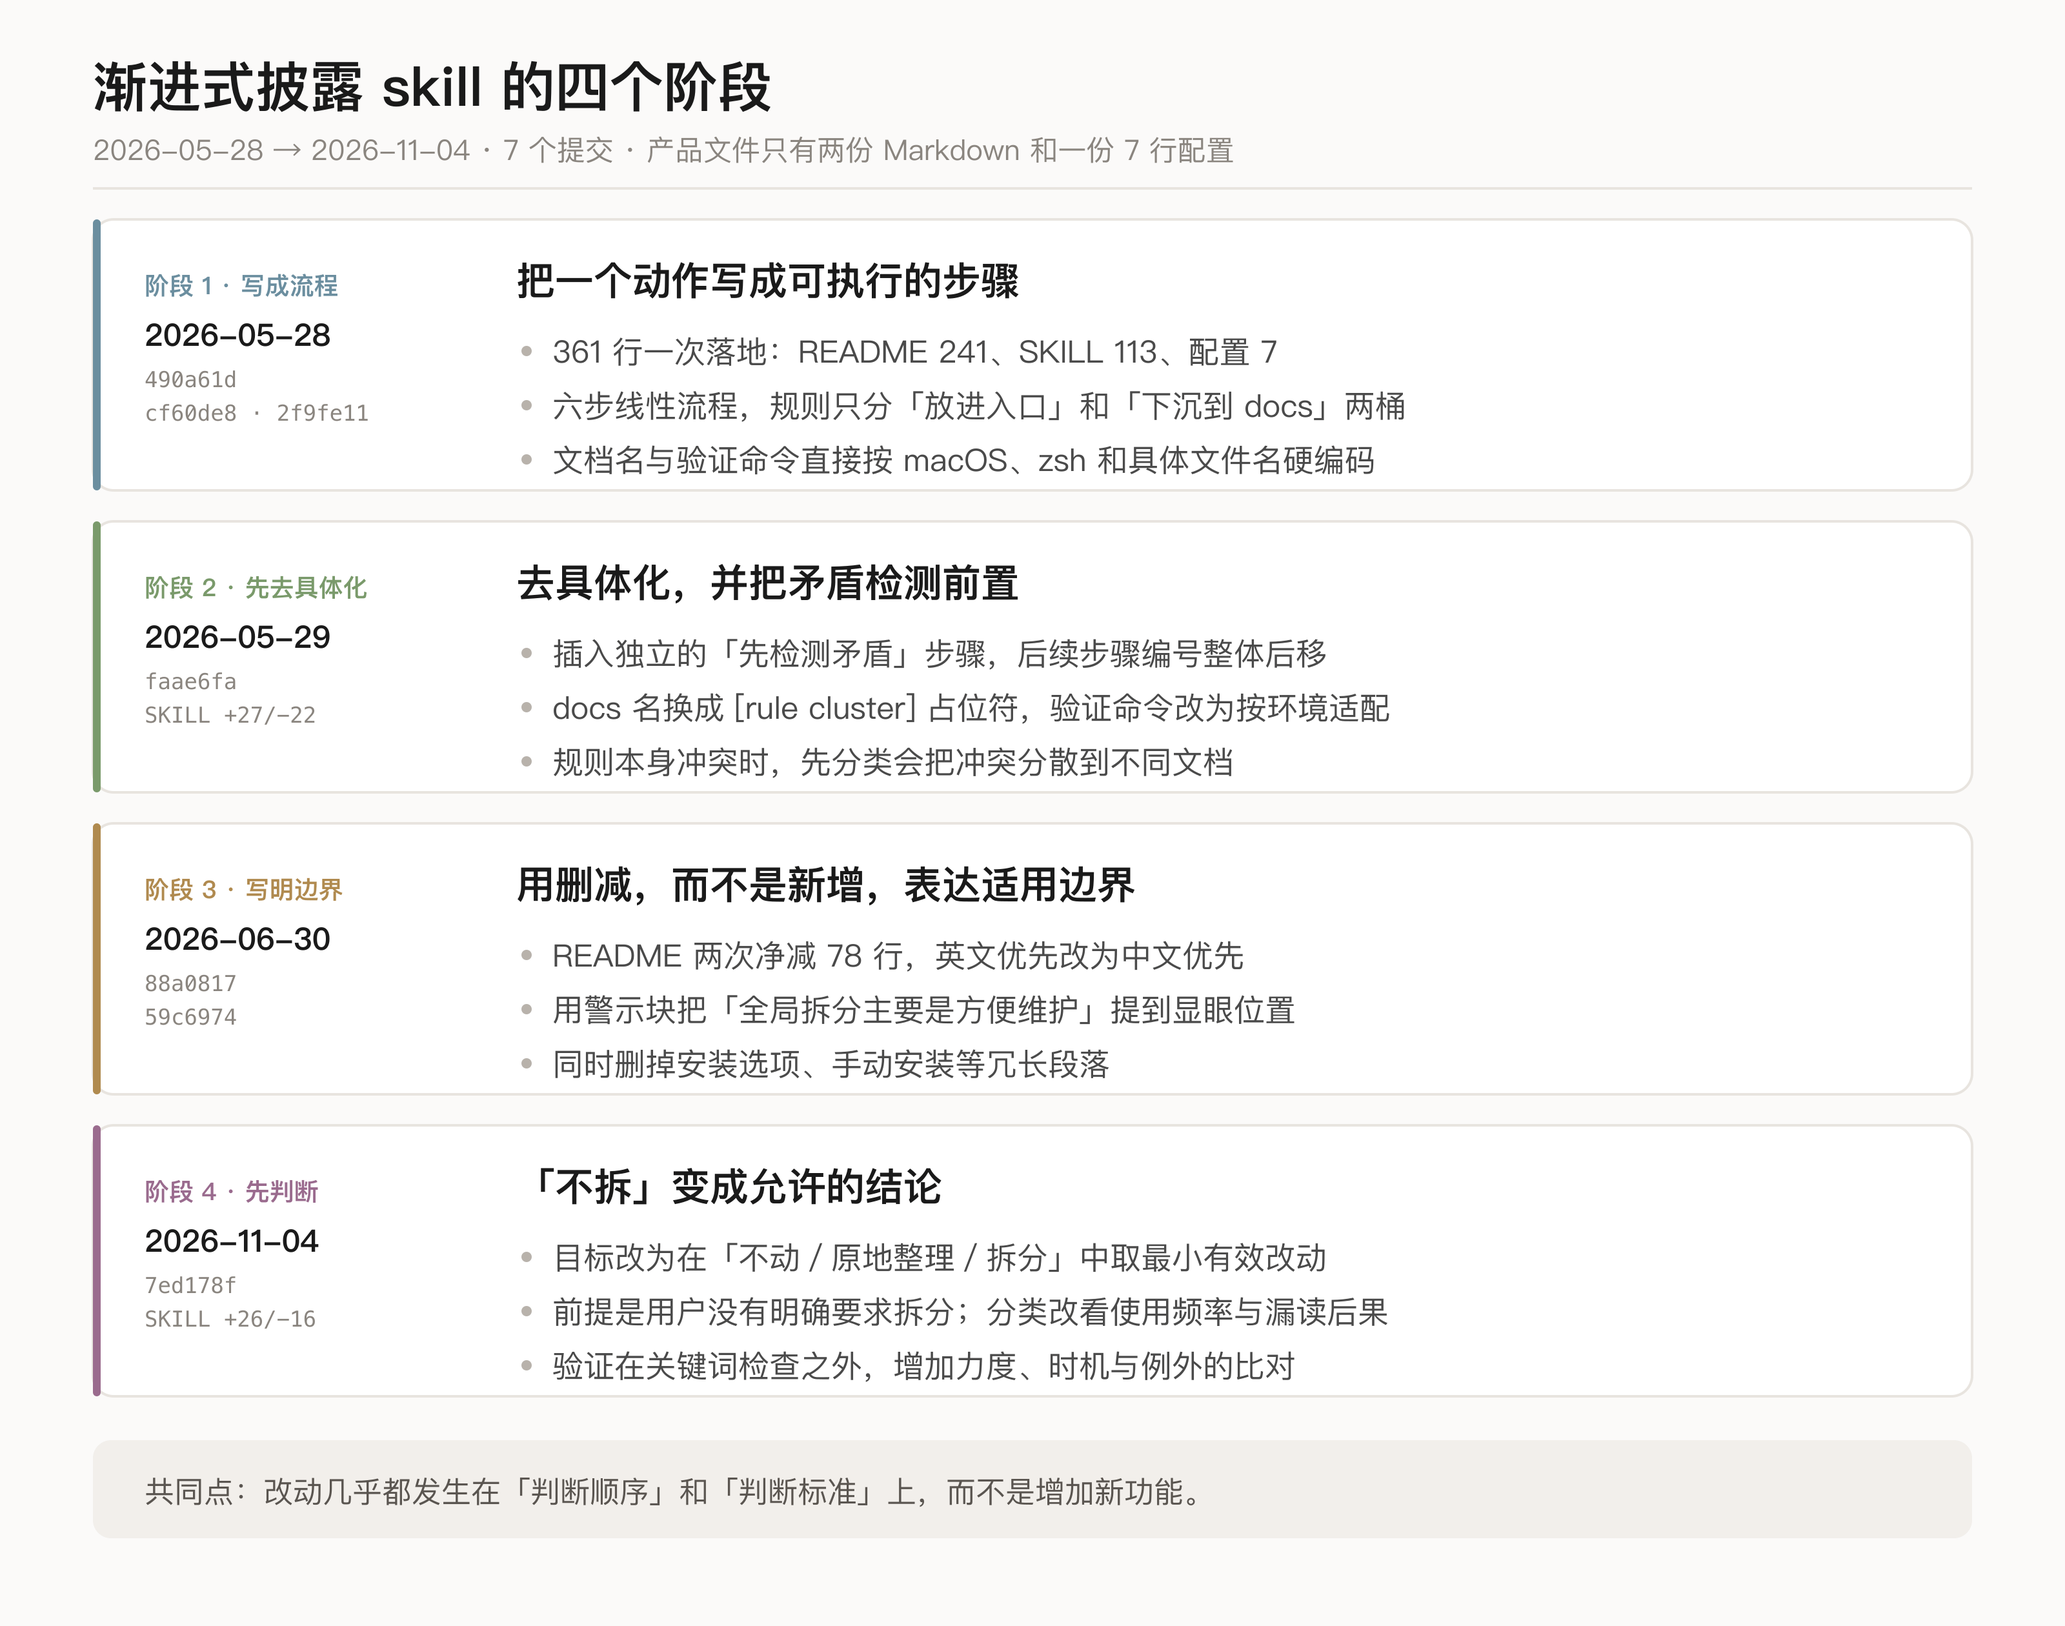
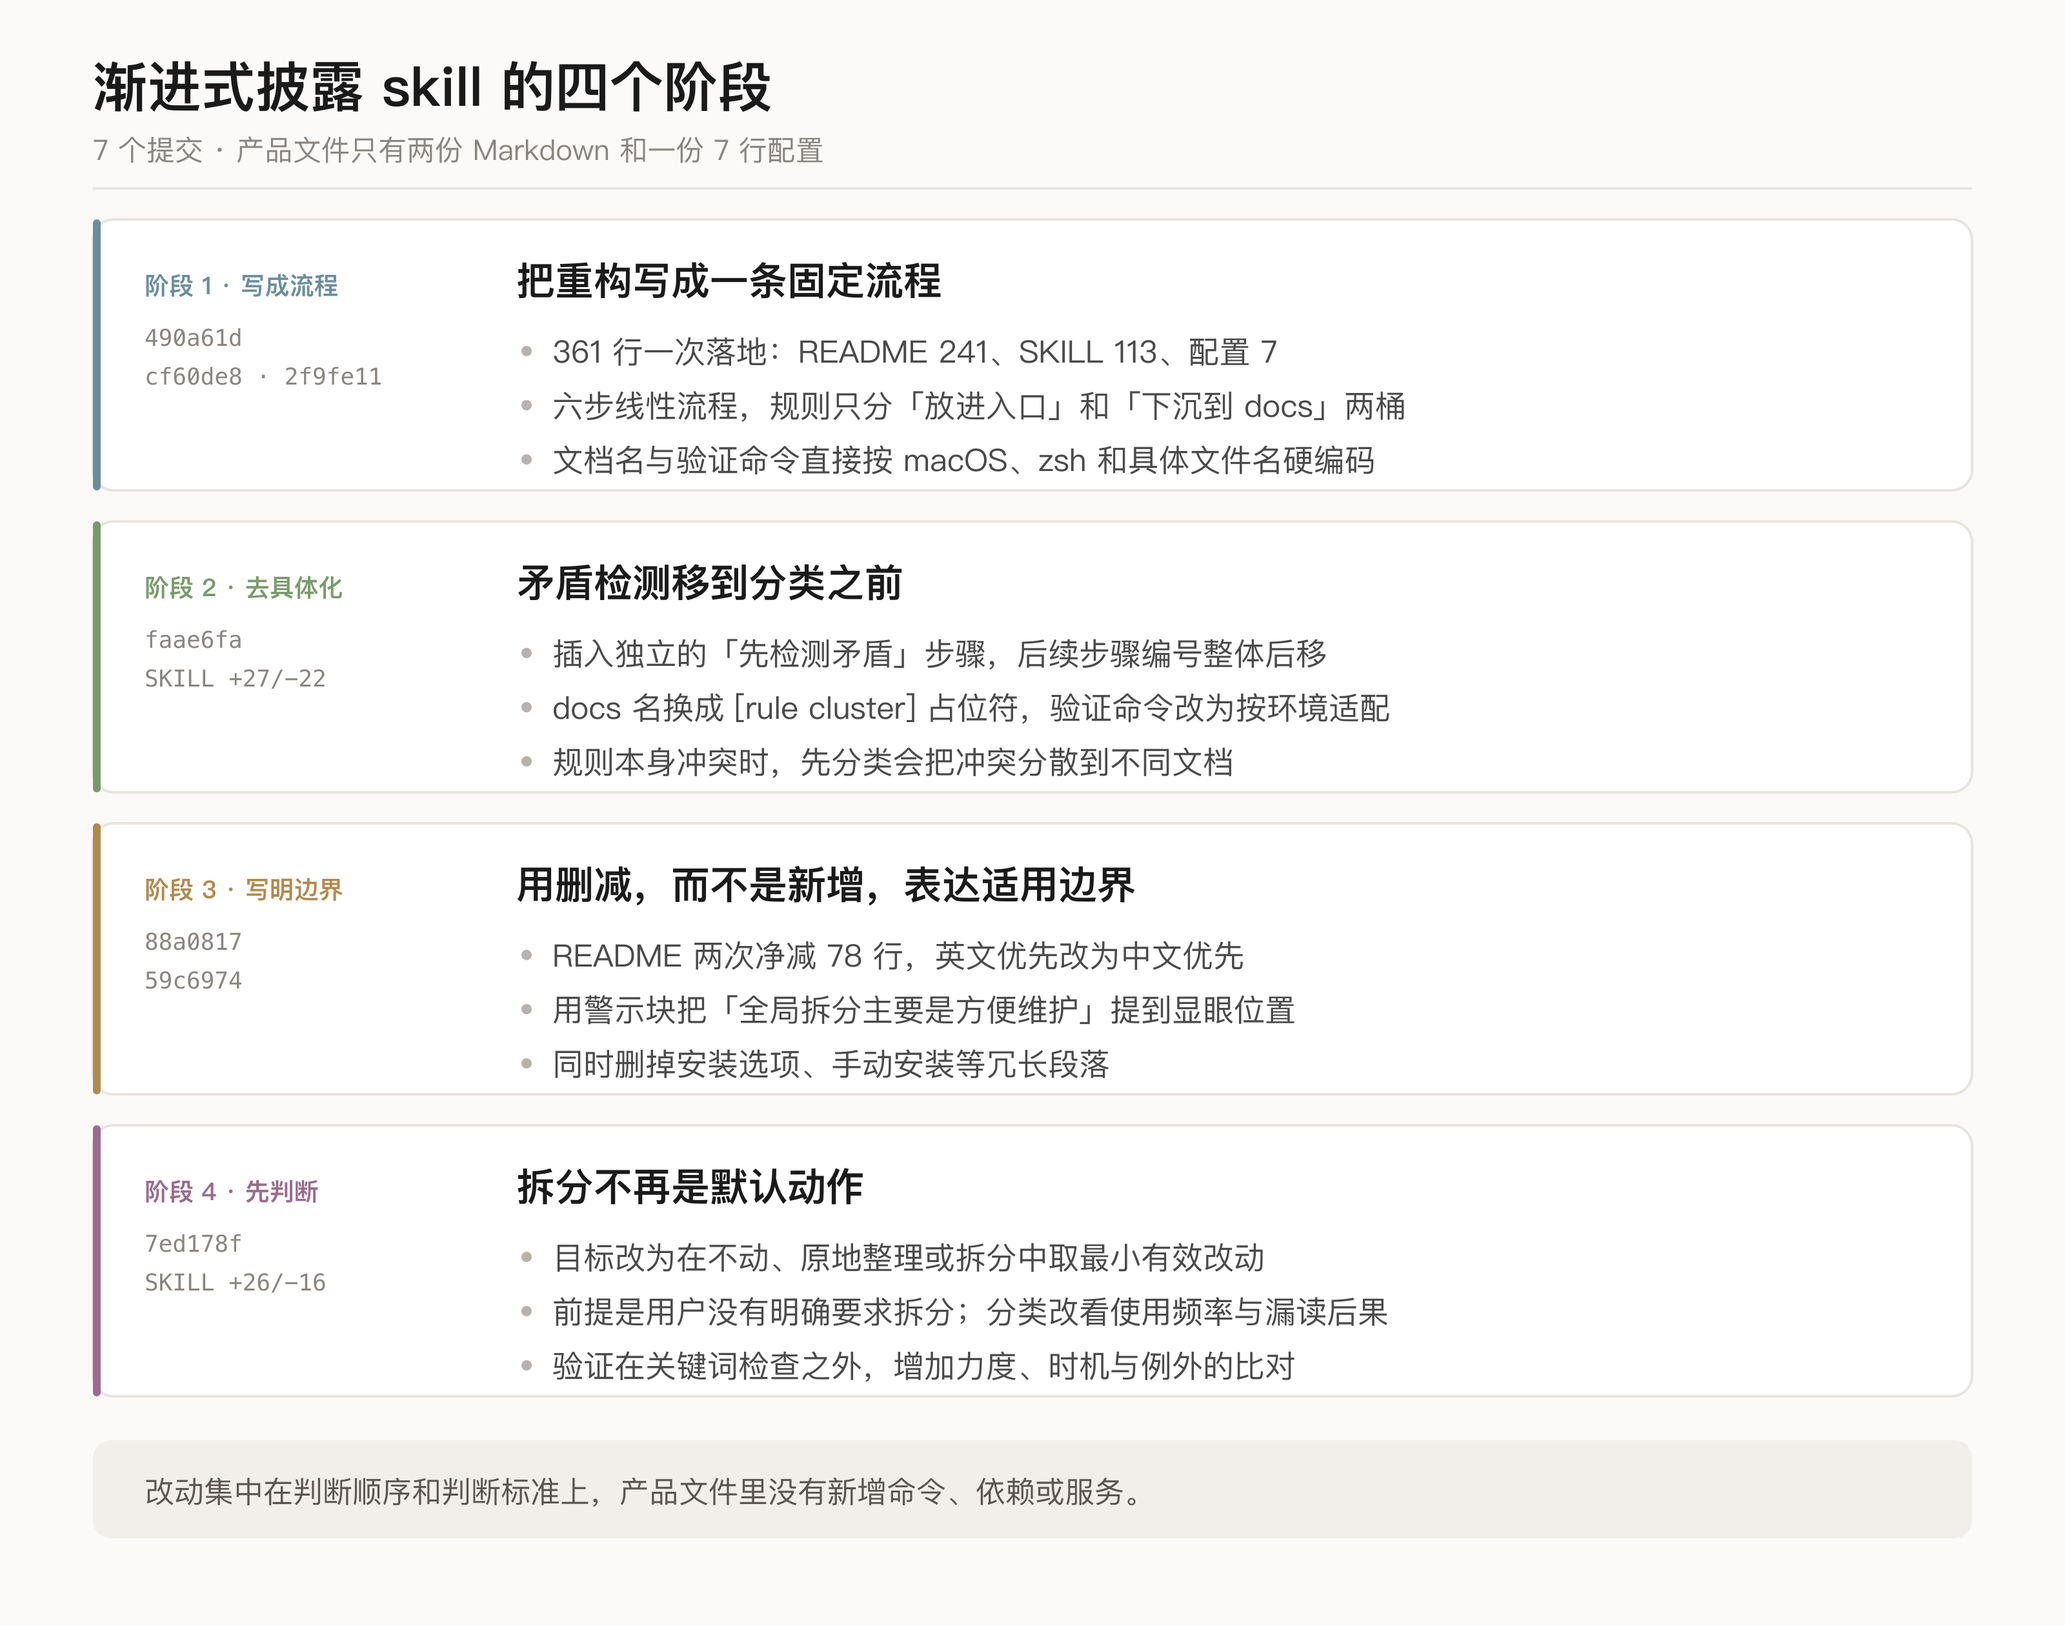
docs(projects): rewrite the entry in a technical-writing register
Drop the "还没有做完的下一步" and "这条线说明什么" sections. Restructure
the four phase headings so each names the change in judgment instead of
recounting a turn. Remove dates and interval wording from the prose and
from the infographic, keeping the commit hashes as the identifiers.

diff --git a/src/content/projects/agents-progressive-disclosure.md b/src/content/projects/agents-progressive-disclosure.md
@@ -1,7 +1,7 @@
 ---
 title: agents-progressive-disclosure
 published: 2026-11-04
-description: 一个 agent skill 的七次提交：从「把一个动作写成步骤」，到「先判断这件事该不该做」。
+description: 一个 agent skill 的七次提交：从把重构写成固定流程，到先判断这件事该不该做。
 tags:
   - Agent
   - AGENTS.md
@@ -17,79 +17,61 @@ link:
     value: https://skills.sh/Caph-dev/agents-progressive-disclosure
 ---
 
-这个项目很小：一份 `SKILL.md`，一份 `README.md`，加一份七行的配置。功能也只有一件——评估膨胀的 `AGENTS.md`、`CLAUDE.md`，必要时拆成精简的入口文件和按需读取的 `docs/`。
+这个项目很小：一份 `SKILL.md`，一份 `README.md`，加一份七行的配置。它做一件事，评估膨胀的 `AGENTS.md` 或 `CLAUDE.md`，必要时拆成精简的入口文件和按需读取的 `docs/`。
 
-效果我不打算在这里证明。下面只讲一件事：七次提交里，这个技能判断问题的方式换过几轮，以及这些改动各自改变了什么判断。
+效果不在这里证明。下面按提交顺序看这七个提交，重点是每一次改动把哪些默认做法换成了需要先回答的问题。
 
-![agents-progressive-disclosure 的四个阶段：按提交时间排列，每段标注日期、提交哈希、改动内容与判断标准的变化](/assets/images/projects/apd-evolution.png)
+![agents-progressive-disclosure 的四个阶段：按提交顺序排列，每段标注提交哈希、改动内容和判断标准的变化](/assets/images/projects/apd-evolution.png)
 
-## 起点：把一个动作写成步骤
+## 初版把重构写成了一条固定流程
 
-第一个提交 `490a61d`（2026-05-28）一次落地 361 行：README 241 行、SKILL 113 行、配置 7 行。
+提交 `490a61d` 一次落地 361 行：README 241 行，SKILL 113 行，配置 7 行。当时的流程是一条直线：
 
-当时的 `SKILL.md` 是一条直线：
+> 识别目标文件，检查现有结构，把规则分成两桶，设计 docs 映射，重写入口，验证规则没有丢失。
 
-> 识别目标文件 → 检查现有结构 → 把规则分两桶 → 设计 docs map → 重写入口 → 验证规则没丢
+两桶是写死的。语言默认值、安全边界和工具优先级留在入口。命令目录、搜索策略、框架指令、包管理器、环境配置、Git、部署、测试和文档风格全部下沉。文档名同样写死，例如 `docs/search-and-evidence.md` 和 `docs/local-environment.md`。验证命令直接用 macOS 上 zsh 的 `wc -l` 和 `rg`。
 
-「两桶」是硬编码的。语言默认值、安全边界、工具优先级留在入口；命令目录、搜索策略、框架指令、包管理器、环境配置、Git、部署、测试、文档风格，全部下沉。连文档该叫什么名字都写死了——`docs/search-and-evidence.md`、`docs/local-environment.md`、`docs/project-workflow.md`，验证命令也直接是 macOS 配 zsh 的 `wc -l` 和 `rg`。
+这套流程有一个没有写出来的前提：目标项目和自己的项目一样。文档名、命令和规则主题都取自那一个项目，换一个项目就不再成立。
 
-初版保留了很具体的环境假设：文档名、验证命令、所针对的项目形态都写死在流程里。拿一个刚做成的具体项目当模板，写起来是快，但它描述的是「当时那个项目」，不是「任何项目」。
+## 矛盾检测被移到分类之前
 
-同一天还有两个只动 README 的提交（`cf60de8` 加 skills.sh 徽章、`2f9fe11` 加社区致谢），各 2 行，主线未变。
+提交 `faae6fa` 修改 SKILL，加 27 行、删 22 行。改动落在流程顺序上。
 
-## 第一次转向：分类之前，先承认输入可能是矛盾的
+分类之前多了一步，先检测矛盾。要扫的东西包括互相冲突的风格规则、写了两个的包管理器、前后不一致的测试命令、相互矛盾的安全边界或优先级声明，以及同一条规则用不同措辞写了两遍。能依据用户明确指令、最近层级的指令文件或本地证据解决的，直接解决。解决不了才问用户。
 
-`faae6fa`（2026-05-29）在 SKILL 里加 27 行、删 22 行，但真正动的是流程顺序。
+这一步的位置说明了一个判断：矛盾要先收敛到一处解决。如果输入本身互相冲突，先分类就会把同一个冲突分散到不同文档里，之后更难发现。
 
-最大的改动是在「分类」之前插入了一个新步骤：**先检测矛盾**。风格规则互相打架、包管理器写了两个、测试命令前后不一致、安全边界与优先级声明冲突，或者同一条规则用不同措辞重复了一遍——这些要先扫出来，再依据用户明确指令、最近层级的指令文件或本地证据解决，解决不了才问人。
+同一个提交还清掉了模板里的具体值。文档名换成 `[rule cluster]` 和 `[focused-doc]` 占位符。验证命令从写死的 macOS 和 zsh 改成按当前环境适配，占位符换成实际文件。README 里那一串具体文档名也删了，改为要求保留各平台各自的 frontmatter、imports 和路径通配。
 
-这一步的位置说明了一件事：矛盾应当先收敛到一处解决。如果输入本身自相矛盾，先分类就可能把同一个冲突分散到不同文档里，反而更难发现。
+这一轮没有增加能力，只把模板里那些来自单个项目的默认值拆了出去。
 
-同一个提交还把模板去具体化了：文档名换成 `[rule cluster]` / `[focused-doc]` 占位符，验证命令从硬编码的 macOS/zsh 改成「按当前环境适配，占位符替换成实际文件」。README 里那串具体文档名也被删掉，换成「保留各平台要求的 frontmatter、imports、path globs」。
+## README 开始写明技能的适用边界
 
-这一轮没有增加任何能力，只是把「我以为的默认值」从流程里拆了出去。
+提交 `88a0817` 重写 README，加 90 行、删 149 行。提交 `59c6974` 又加 21 行、删 40 行。两次合计净减 78 行。改写方向是中文优先，原来英文在前。
 
-## 第二次转向：用删减表达适用边界
-
-一个多月后 `88a0817`（2026-06-30）重写 README，加 90 行、删 149 行；同一天的 `59c6974` 又加 21 行、删 40 行。两次合计净减 78 行。
-
-改写方向是中文优先（原来英文在前），但更值得注意的是文档里第一次出现了**反面结论**：
+README 里第一次出现反面结论：
 
 > 其实将全局 `AGENTS.md` 拆分的必要性并不高，主要是方便维护。省上下文的收益几乎为 0，反正都会命中缓存。
+>
 > 但是对于项目级的 `AGENTS.md` 用处就不小了。
 
-这句是当时 README 的判断，没有配套的实测。「缓存命中」也不等于这些指令完全不占上下文，更推不出成本或行为影响接近零。但它确实标出了这个技能的位置：它不是一个通用的「优化手段」，而是一个有明确适用面的工具，主要价值在方便维护。
+这句是当时 README 的判断，没有配套实测。缓存命中也不等于这些指令不占上下文。但它标出了技能的适用面，主要解决项目级 `AGENTS.md` 的维护问题。
 
-表达方式也值得记一笔：这条边界是用删减说出来的。同一批提交删掉了「更多安装选项」和「手动安装」的整段，把提醒用 `> [!IMPORTANT]` 和 `> [!CAUTION]` 提到显眼位置，而不是在末尾再加一节「注意事项」。
+边界的表达方式是删减。同一批提交删掉了「更多安装选项」和「手动安装」两段。提醒改用 `> [!IMPORTANT]` 和 `> [!CAUTION]` 提示块放到前面，而不是在文末补一节注意事项。
 
-## 第三次转向：「不拆」变成允许的结论
+## 拆分不再是默认动作
 
-最近一次 `7ed178f`（2026-11-04）改 SKILL 加 26 行、删 16 行，是四轮里最根本的一次。
+提交 `7ed178f` 修改 SKILL，加 26 行、删 16 行。技能的目标被换掉了。旧目标是「把长指令文件转成精简入口和聚焦文档」，新目标是评估这个文件，然后在保持不动、原地整理和拆分三者中选最小的有效改动。
 
-技能的目标本身被换掉了。之前是「把长指令文件转成精简入口加聚焦文档」，现在变成：评估这个文件，然后在**保持不动、原地整理、拆分**里选最小的有效改动。这里有个前提——用户没有明确要求拆分；一旦点名要拆，就照做。新增的那一步写得很直白：如果拆分解决不了具体问题（文件本来就不长、规则本来就是配套使用的、收益不清楚），就说明理由然后停下，不备份、不新建文档。默认动作从「拆」变成「先判断」。
+新增的步骤写了前提：只有用户没有明确要求拆分时才这样判断。如果拆分解决不了具体问题，就说明理由并停止。文件本来就不长、规则本来配套使用、收益不清楚，都属于解决不了具体问题。停止意味着不备份，也不新建文档。
 
-分类标准也跟着换了。原来是按主题切：测试的进测试文档，Git 的进 Git 文档。现在要求按**内容本身和使用情境**分，并明确禁止「仅仅因为主题是测试、Git、环境配置就下沉」。判断依据变成两条：这条规则多常用，漏了会怎样。常驻规则和任务细节这两类仍然存在，变的是去向不再由主题单独决定。
+分类标准也换了。原来按主题切分，测试的进测试文档，Git 的进 Git 文档。现在按内容和使用情境切分，并明确禁止「仅仅因为主题是测试、Git 或环境配置就下沉」。判断依据有两条：这条规则多常用，漏了会怎样。常驻规则和任务细节这两类仍然存在，变的是去向不再由主题单独决定。
 
-验证环节同样在改。旧版包含关键词检查：列一份清单，去新文件里 `rg` 一遍。新版进一步指出这一步的边界——关键词命中只能发现遗漏，不能证明语义还在。所以它保留关键词检查，但增加了对每条被移动或改写规则的比对：力度（must / must not / should）、适用范围、生效时机和例外。
+验证环节也改了。旧版列一份关键词清单，到新文件里跑一遍 `rg`。新版指出这一步的边界：关键词命中只能发现遗漏，不能证明语义还在。因此新版保留关键词检查，并增加对每条被移动或改写规则的比对，比对力度（must、must not 或 should）、适用范围、生效时机和例外。
 
-路由表的表头也从「任务类型 / 先读文档 / 触发条件」改成「任务或对象 / 先读文档 / 触发时机」，并加了一条要求：agent 必须能在**不读目标文档的前提下**认出触发条件，并在受该规则约束的动作发生之前去读。
+路由表的表头从「任务类型、先读文档、触发条件」改成「任务或对象、先读文档、触发时机」。新版另加一条要求：agent 必须能在不读目标文档的情况下认出触发条件，并在受该规则约束的动作发生前读完。
 
-## 这条线说明什么
-
-以上是我对 diff 的解读，不是当初动机的记录。四轮改动里，产品文件始终只有三份：`README.md`、`SKILL.md`，和一份只改过一行的七行配置。没有新增命令、依赖、后台服务或测试框架。
-
-变化集中在两处：
-
-- **判断顺序**：先检矛盾再分类；先判断该不该做再动手。
-- **判断标准**：从「这条规则属于什么主题」退到「这条规则什么时候真的会被需要」；从「关键词还在不在」退到「规则还一样硬吗」。
-
-方向是一致的。每一次修正，都在把一个默认前提换成需要论证的条件。
-
-## 还没做完的下一步
-
-本地还有一份未提交的评估草案（`plans/001`）：用 improve 技能对自己的仓库跑了一遍，提出用固定案例来检验这三类决策——保持现状、原地整理、按需拆分各留一个完整示例，再加几个判定依据明确的场景。这些案例尚未在本文中验证。如果它成立，这个项目下一步要解决的就是「怎么判断拆得对不对」，而不是「怎么拆得更多」。
-
-## 相关
+## 相关链接
 
 - 仓库：[Caph-dev/agents-progressive-disclosure](https://github.com/Caph-dev/agents-progressive-disclosure)
 - skills.sh：[agents-progressive-disclosure](https://skills.sh/Caph-dev/agents-progressive-disclosure)
